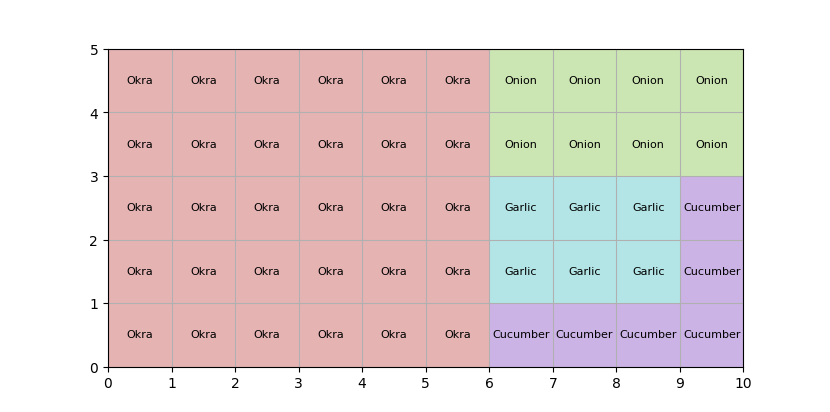
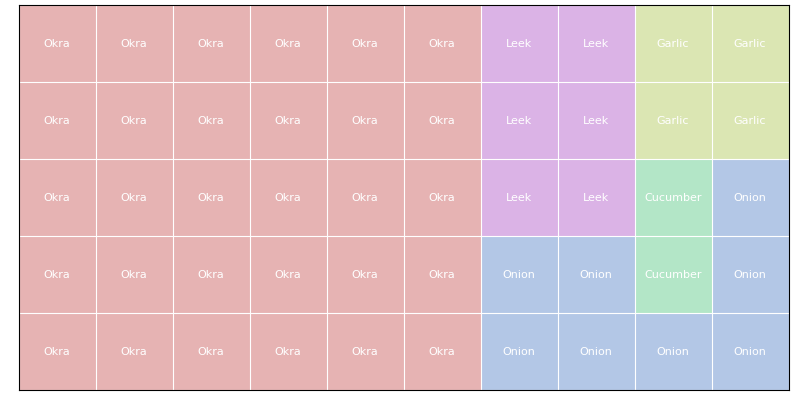
Integrating Plotting
Integrate Plotting Algorithm

diff --git a/backend/create_cluster.py b/backend/create_cluster.py
@@ -77,11 +77,12 @@ def create_garden_plot(garden_id):
     # Fill the garden.
     fill_garden()
 
-    # Function to plot the graden.
+    # Function to plot the garden.
     def plot_garden(garden_plot, garden_id):
         fig, ax = plt.subplots(figsize=(10, 5))
         ax.set_xlim(0, garden_plot.shape[1])
         ax.set_ylim(0, garden_plot.shape[0])
+        ax.set_facecolor('black')  # Set background to black
 
         for r in range(garden_plot.shape[0]):
             for c in range(garden_plot.shape[1]):
@@ -90,16 +91,19 @@ def create_garden_plot(garden_id):
                     color = crop_colors[crop] 
                     ax.add_patch(plt.Rectangle((c, garden_plot.shape[0] - r - 1), 1, 1, facecolor=color, edgecolor='none'))
                     # Capitalize the crop name
-                    ax.text(c + 0.5, garden_plot.shape[0] - r - 0.5, crop.capitalize(), ha='center', va='center', fontsize=8, color='black')
+                    ax.text(c + 0.5, garden_plot.shape[0] - r - 0.5, crop.capitalize(), ha='center', va='center', fontsize=8, color='white')  # Change text color to white
 
         ax.set_xticks(np.arange(0, garden_plot.shape[1] + 1, 1))
         ax.set_yticks(np.arange(0, garden_plot.shape[0] + 1, 1))
-        ax.grid(True)
+        ax.grid(True, color='white')  # Change grid color to white
+
+        # Set the tick labels to white
+        ax.tick_params(axis='both', colors='white')
 
         plt.gca().set_aspect('equal', adjustable='box')
 
         # Create directory if it does not exist
-        output_dir = 'src/frontend/plotpng'
+        output_dir = 'frontend/src/plotpng'
         os.makedirs(output_dir, exist_ok=True)
 
         plt.savefig(os.path.join(output_dir, f'{garden_id}.png'), transparent=True, bbox_inches='tight', pad_inches=0)

diff --git a/backend/app.py b/backend/app.py
@@ -2,14 +2,15 @@ import sqlite3
 from flask import Flask, jsonify, request
 from flask_cors import CORS
 from pairing import present_plant_ids
-
+from dotenv import load_dotenv
+import os
 from create_cluster import create_garden_plot
-
+load_dotenv()
 
 app = Flask(__name__)
 CORS(app, resources={r"/api/*": {"origins": "http://localhost:3000"}})
 
-app.config['SECRET_KEY'] = 'secret key'
+app.config['SECRET_KEY'] = os.getenv('SECRET_KEY')
 
 def get_db_connection():
     print("Connected to Database")
@@ -86,7 +87,7 @@ def add_crops():
     try:
         conn.execute(insert_query, params)
         conn.commit()
-        #create_garden_plot(garden_id)
+        create_garden_plot(garden_id)
         return jsonify({"garden_id": garden_id}), 201 
     except Exception as e:
         return jsonify({"error": str(e)}), 400
